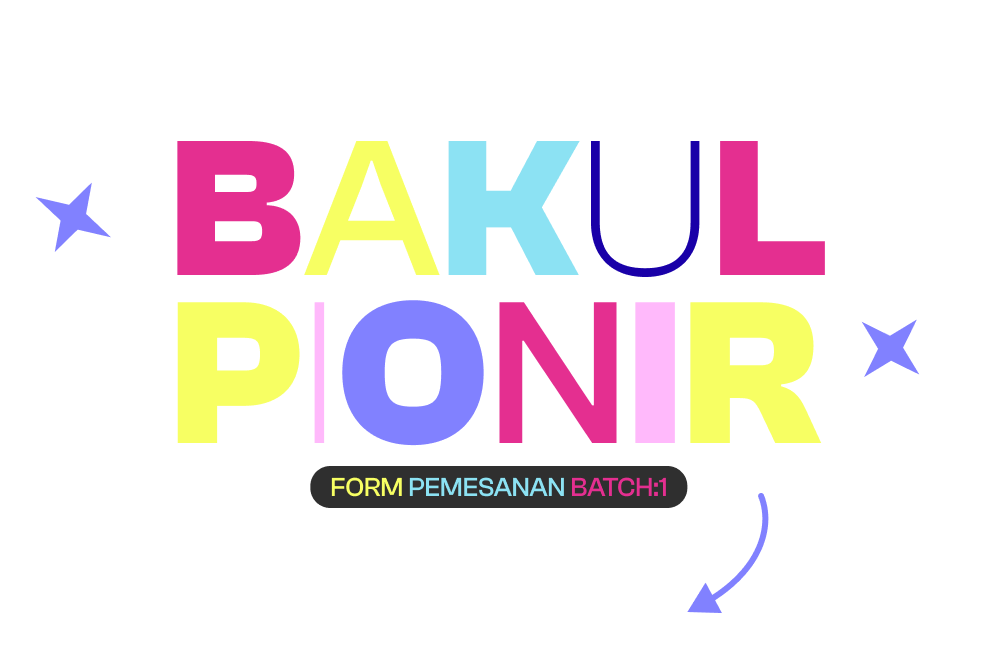
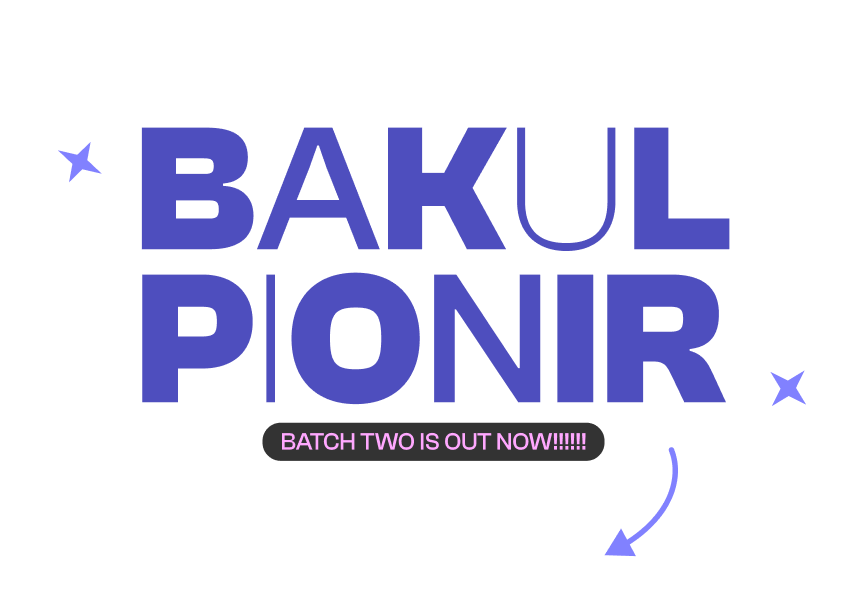
Batch 2

diff --git a/index.html b/index.html
@@ -4,7 +4,7 @@
     <meta charset="UTF-8">
     <meta name="viewport" content="width=device-width, initial-scale=1.0">
     <link rel="icon" type="image/png" href="favicon.png">
-    <title>Form Batch1 Bakul Pionir</title>
+    <title>Form Batch2 Bakul Pionir</title>
     <link rel="stylesheet" href="style.css">
     <link rel="stylesheet" href="css/clash-grotesk.css">
     <link rel="preconnect" href="https://fonts.googleapis.com">
@@ -94,7 +94,7 @@
                 
             <div class="carde">
                 <img src="imageBundle/BUNDLEPAKETLENGKAP.png" alt="Bundle Paket Lengkap">
-                <label for="bundleLengkap" class="carde-text">Bundle Paket Lengkap (47K)</label>
+                <label for="bundleLengkap" class="carde-text">Bundle Paket Lengkap (60K)</label>
                 <div class="checkbox-wrapper">
                     <input type="checkbox" id="bundleLengkap" name="produk" value="Bundle Paket Lengkap">
                 </div>
@@ -102,7 +102,7 @@
             
             <div class="carde">
                 <img src="imageBundle/BUNDLEEKSEKUTIFPIONIR.png" alt="Bundle eks">
-                <label for="bundleEksekutifPionir" class="carde-text">Bundle Eksekutif Pionir (36K)</label>
+                <label for="bundleEksekutifPionir" class="carde-text">Bundle Eksekutif Pionir (40K)</label>
                 <div class="checkbox-wrapper">
                     <input type="checkbox" id="bundleEksekutifPionir" name="produk" value="bundle Eksekutif Pionir">
                 </div>
@@ -110,7 +110,7 @@
             
             <div class="carde">
                 <img src="imageBundle/BUNDLESTARTER.png" alt="Bundle eks">
-                <label for="bundleStarter" class="carde-text">Bundle Starter (38K)</label>
+                <label for="bundleStarter" class="carde-text">Bundle Starter (45K)</label>
                 <div class="checkbox-wrapper">
                     <input type="checkbox" id="bundleStarter" name="produk" value="bundle Starter">
                 </div>
@@ -118,7 +118,7 @@
 
             <div class="carde">
                 <img src="imageBundle/BUNDLEPEJUANGHEMAT.png" alt="Bundle eks">
-                <label for="bundlePejuangHemat" class="carde-text">Bundle Pejuang Hemat (28K)</label>
+                <label for="bundlePejuangHemat" class="carde-text">Bundle Pejuang Hemat (35K)</label>
                 <div class="checkbox-wrapper">
                     <input type="checkbox" id="bundlePejuangHemat" name="produk" value="bundle Pejuang">
                 </div>
@@ -126,14 +126,14 @@
 
             <div class="carde">
                 <img src="imageBundle/CAPING.png" alt="Bundle eks">
-                <label for="caping" class="carde-text">Caping Warna (27K)</label>
+                <label for="caping" class="carde-text">Caping Warna (30K)</label>
                 <div class="checkbox-wrapper">
                     <input type="checkbox" id="caping" name="produk" value="bundle Pejuang">
                 </div>
             </div>
             <div class="carde">
                 <img src="imageBundle/CAPING.png" alt="Bundle eks">
-                <label for="capingPolos" class="carde-text">Caping Polos (24K)</label>
+                <label for="capingPolos" class="carde-text">Caping Polos (27K)</label>
                 <div class="checkbox-wrapper">
                     <input type="checkbox" id="capingPolos" name="produk" value="bundle Pejuang">
                 </div>
@@ -141,7 +141,7 @@
 
             <div class="carde">
                 <img src="imageBundle/LANYARD.png" alt="Bundle eks">
-                <label for="lanyard" class="carde-text">Lanyard (18K)</label>
+                <label for="lanyard" class="carde-text">Lanyard (22K)</label>
                 <div class="checkbox-wrapper">
                     <input type="checkbox" id="lanyard" name="produk" value="bundle Pejuang">
                 </div>
@@ -149,7 +149,7 @@
 
             <div class="carde">
                 <img src="imageBundle/DASI.png" alt="Bundle eks">
-                <label for="dasi" class="carde-text">Dasi (14K)</label>
+                <label for="dasi" class="carde-text">Dasi (17K)</label>
                 <div class="checkbox-wrapper">
                     <input type="checkbox" id="dasi" name="produk" value="bundle Pejuang">
                 </div>
@@ -163,7 +163,7 @@
             </div>
             <div class="carde">
                 <img src="imageBundle/STICKER.png" alt="Bundle eks">
-                <label for="sticker" class="carde-text">Sticker (7K)</label>
+                <label for="sticker" class="carde-text">Sticker (8K)</label>
                 <div class="checkbox-wrapper">
                     <input type="checkbox" id="sticker" name="produk" value="bundle Pejuang">
                 </div>

diff --git a/style.css b/style.css
@@ -4,9 +4,9 @@ body {
     align-items: center;
     height: 100vh;
     margin-top: 20px;
-    background-color: #1d1d1b;
+    background-color: #f5fcfd; /* Latar belakang hijau pucat */
     position: relative;
-    overflow-x: hidden; /* Mencegah scroll horizontal */
+    overflow-x: hidden;
 }
 html, body {
     overflow-x: hidden;
@@ -26,16 +26,17 @@ html, body {
 .card {
     height: fit-content;
     width: 60%;
-    padding: 15px;
+    padding: 20px; /* Sedikit padding tambahan */
     border-radius: 20px;
-    color: white;
+    background-color: #ffffff; /* Background card putih */
+    color: #3d52a0; /* Warna teks biru tua */
     font-family: 'Montserrat', sans-serif;
     font-size: 18px;
     font-weight: 500;
-    box-shadow: 5px 5px 10px rgba(0, 0, 0, 0.2);
+    box-shadow: 0px 8px 15px rgba(61, 82, 160, 0.15); /* Bayangan lebih halus */
     margin-top: 10px;
-    position: relative;
     opacity: 0;
+    border: #d4deff solid 4px; /* Border dengan warna biru muda yang serasi */
     transform: scale(0.8);
     will-change: transform, opacity;
 }
@@ -121,6 +122,7 @@ html, body {
 .deskripsi-singkat {
     width: 24% ;
     font-family: 'Montserrat', sans-serif;
+    font-weight: 500;
     padding: 10px 10px;
     background: none; 
     border: none; 
@@ -129,17 +131,22 @@ html, body {
     margin-bottom: 10px;
     margin-left: 10px;
     font-size: 16px;
-    border-radius: 20px;
+    border-radius: 14px;
 }
+
 .deskripsi-singkat:focus {
     outline: none; 
     border: none;
     box-shadow: none;
 }
 .deskripsi-singkat::placeholder {
-    color: black;
+    color: white;
     opacity: 1; 
 }
+
+#fakultas option[value=""][disabled] {
+    color: white;
+  }
 
 .dropdown-container {
     display: flex;
@@ -160,7 +167,7 @@ html, body {
     border: none; 
     box-shadow: none; 
     outline: none;
-    color: black;
+    color: white;
     cursor: pointer;
     transition: all 0.3s ease;
     margin-bottom: 10px;
@@ -279,19 +286,24 @@ input[type='file'] {
 .carde {
     display: flex;
     flex-direction: column;
+    justify-content: space-between; /* Improves vertical alignment of content */
     align-items: center;
-    border-radius: 15px;
-    border: none;
-    width: 290px;
+    border-radius: 16px;
+    width: 280px;
     text-align: center;
+    border: 3px solid #4e4ebe;
+    overflow: hidden; /* Ensures the image does not spill outside the rounded corners */
+    cursor: pointer; /* Changes the cursor to show the card is clickable */
+    /* Adds a smooth animation for the click effect */
+    transition: transform 0.3s ease, opacity 0.3s ease;
 }
-
 
 .carde img {
     width:  290px;
     height:  290px;
     object-fit: cover;
     margin-bottom: 10px;
+    
 }
 
 .carde-text{
@@ -305,7 +317,7 @@ input[type='file'] {
 .checkbox-wrapper {
     position: relative;
     bottom: 1px;
-    right: -130px;
+    right: -125px;
 }
 
 .checkbox-wrapper input[type="checkbox"] {
@@ -435,6 +447,8 @@ button:hover {
         margin-bottom: 10px;
         font-size: 12px;
     }
+    
+
     .select-dropdown {
         width: 90%;
         padding: 10px 10px;

diff --git a/script.js b/script.js
@@ -58,7 +58,7 @@ document.addEventListener("DOMContentLoaded", function () {
             if (!buktiBayarURL) throw new Error("Gagal mengunggah gambar!");
 
             // Simpan data pesanan di Firestore
-            const orderRef = window.doc(window.db, "BakulPionirBatch1", nama + "_" + Date.now());
+            const orderRef = window.doc(window.db, "BakulPionirBatch2", nama + "_" + Date.now());
             await window.setDoc(orderRef, {
                 nama,
                 nomor,
@@ -106,12 +106,7 @@ document.addEventListener("DOMContentLoaded", () => {
     const cards = document.querySelectorAll(".card");
 
     let colors = [
-        { bg: "#b18850", text: "#f9e81e" },
-        { bg: "#0295ff", text: "#8ce2f3" },
-        { bg: "#47edbd", text: "#0f4e4d" },
-        { bg: "#bbc41d", text: "#147931" },
-        { bg: "#e42f90", text: "#ffb9fb" },
-        { bg: "#ccb4f0", text: "#644fac" }
+        { bg: "#e0ebff", text: "#4e4ebe" }
     ];
 
     let colorIndex = 0;
@@ -205,17 +200,17 @@ document.addEventListener('DOMContentLoaded', function() {
     // Define products with their prices
     const products = {
         "Bundle Sultan Sejati": 85000,
-        "Bundle Paket Lengkap": 47000,
+        "Bundle Paket Lengkap": 60000,
         "Bundle Stylish": 75000,
-        "Bundle Eksekutif Pionir" : 36000,
-        "Bundle Starter" : 38000,
-        "Bundle Pejuang Hemat" : 28000,
-        "Caping Warna" : 27000,
-        "Caping Polos" : 24000,
-        "Lanyard" : 18000,
-        "Dasi" : 14000,
+        "Bundle Eksekutif Pionir" : 40000,
+        "Bundle Starter" : 45000,
+        "Bundle Pejuang Hemat" : 35000,
+        "Caping Warna" : 30000,
+        "Caping Polos" : 27000,
+        "Lanyard" : 22000,
+        "Dasi" : 17000,
         "Totebag" : 45000,
-        "Sticker" : 7000
+        "Sticker" : 8000
     };
     
     // Initialize selected products object to track selections
